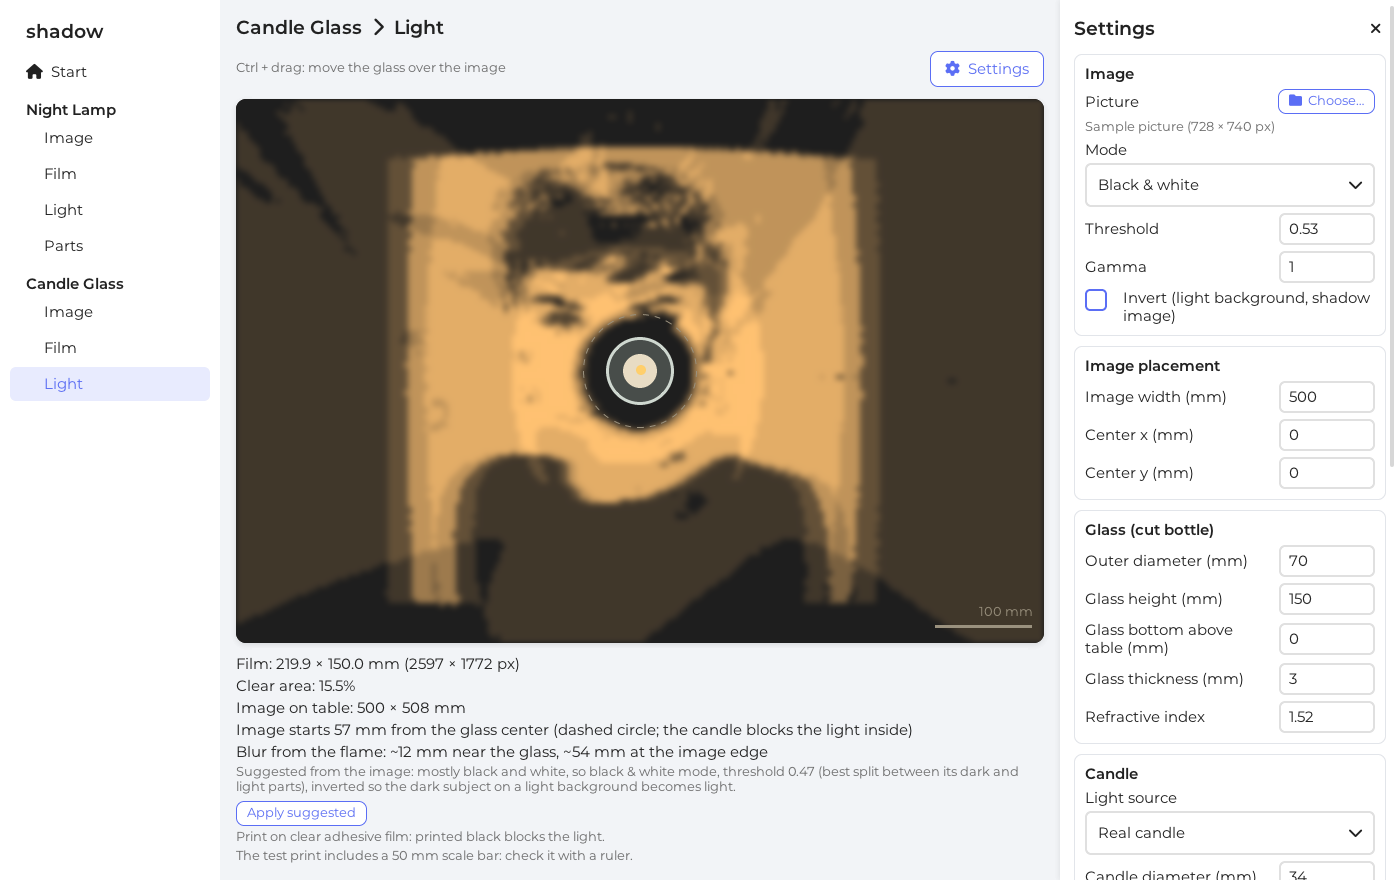
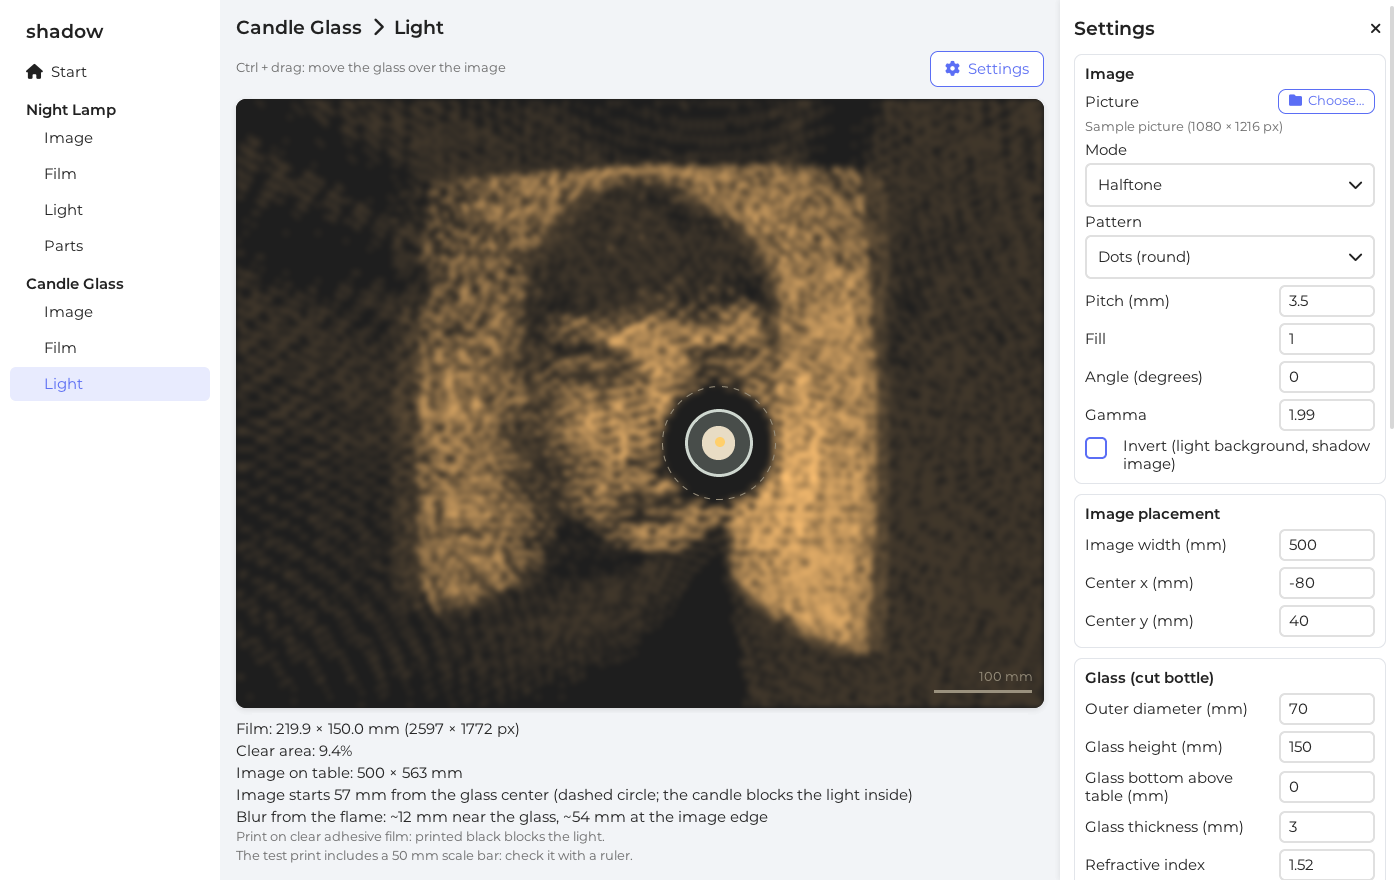
Use a new sample portrait and set the glass on her cheek
The sample picture is now a color portrait of Audrey Hepburn (1080 ×
1216, not cropped). Its suggestion is halftone with gamma, which suits a
photo with soft tones.

The glass always stands at the center of the drawing, so in the middle of
the picture it covered the face. On the first start the picture center
is moved (by 16 % of the image width to the left and 8 % up) so the glass
sits on her cheek and the eyes and mouth stay visible; the fractions keep
the same place on the lamp (400 mm) and the candle (500 mm).

README screenshots are taken again; the README names the photo's source
as given in its metadata.

diff --git a/README.md b/README.md
@@ -123,7 +123,7 @@ It prints `test: ok` at the end. Add `SHADOW_SHOT=<dir>` to save screenshots.
 
 ## License
 
-Sample picture: 1950s studio publicity portrait of Audrey Hepburn, cropped
+Sample picture: portrait of Audrey Hepburn, photo via Newscom
 (`assets/sample_portrait.jpg`).
 
 Bundled fonts: Montserrat (SIL Open Font License, `assets/Montserrat-OFL.txt`) and
